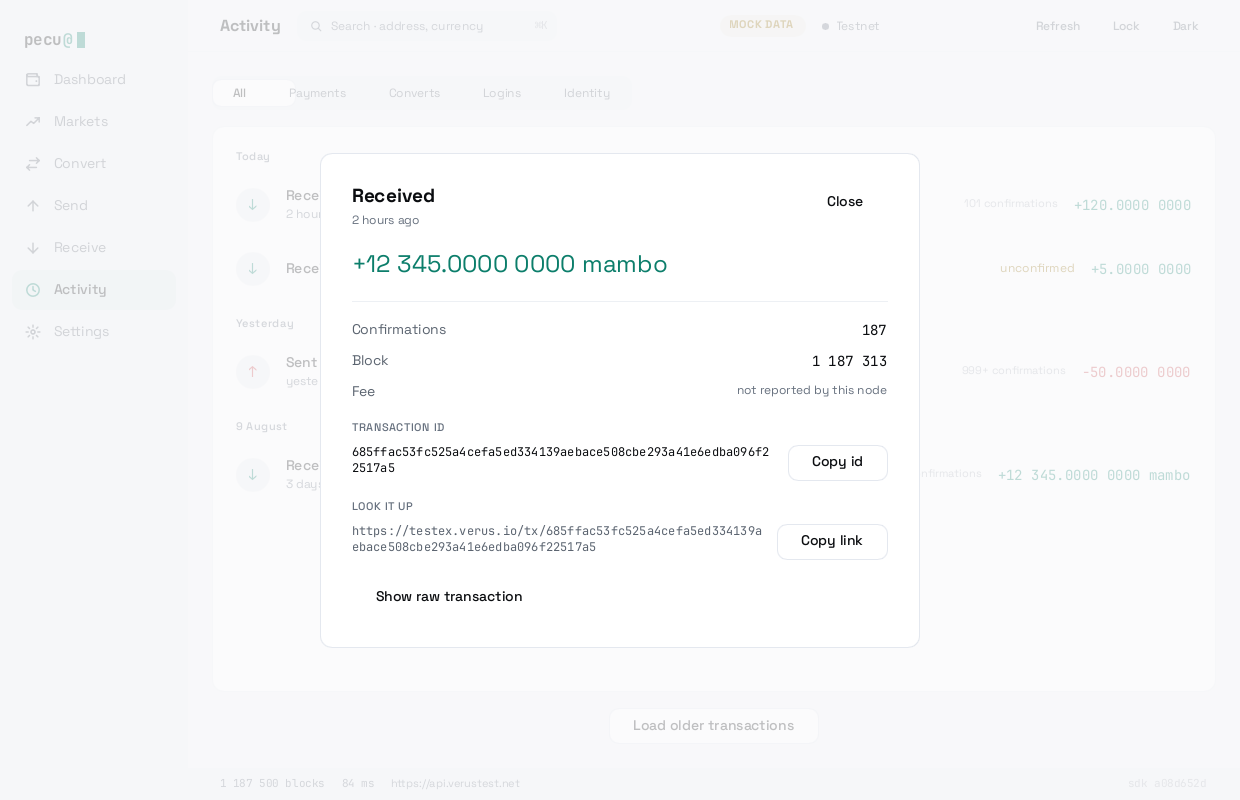
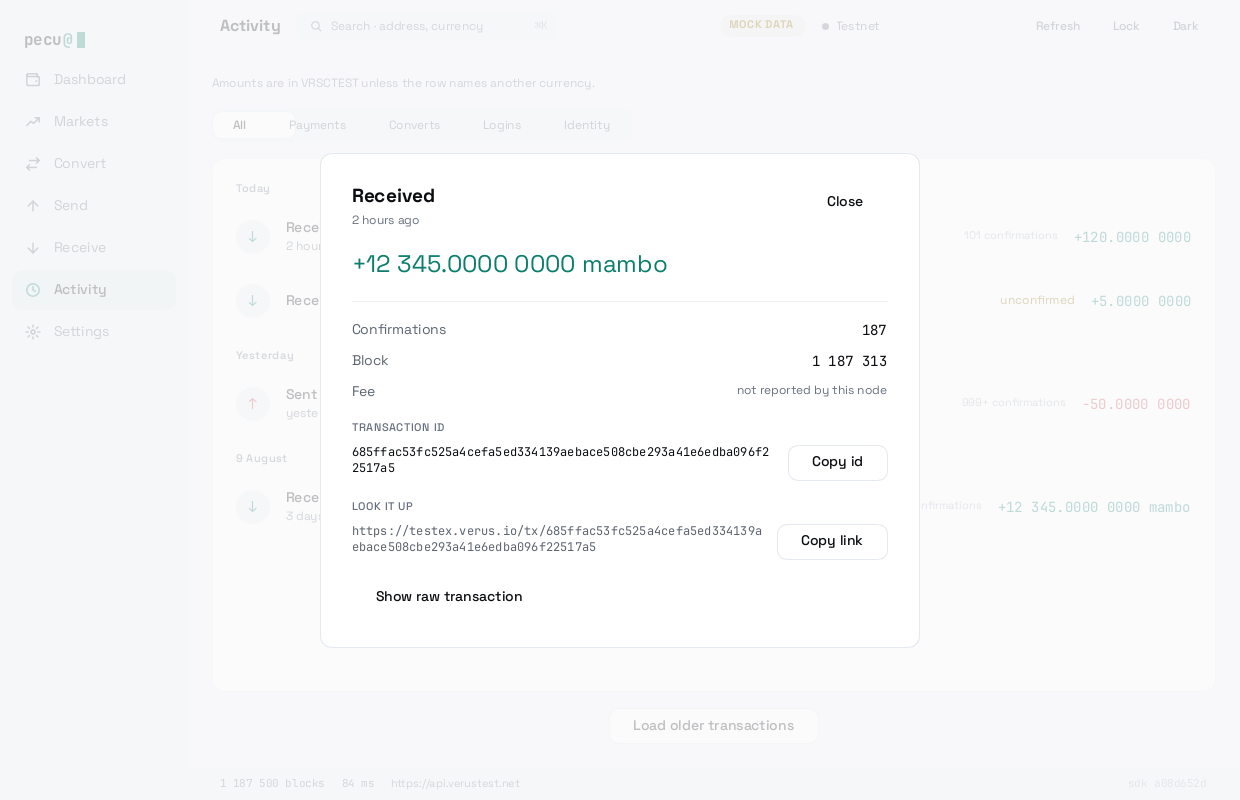
Say once, on the Activity screen, which money it is counting
Every native amount in the list is drawn by a `Money` with
`show-currency: false`, so `+120.0000 0000` and `−50.0000 0000` appear
with nothing anywhere on the screen to say what they are. The one token
row names its own — `+12 345.0000 0000 mambo` — which leaves the single
currency the screen is mostly made of as the only one it never mentions.
This wallet ships five chains and renders them all through the same
interface, and the reference images are testnet, so the screenshot in the
issue is a testnet wallet whose Activity screen says nothing about being
one.

The rows keep `show-currency: false`. Repeating a word that is the same
on every row down a column somebody is scanning for the numbers is why
they were set that way, and undoing it would fix the naming by making
the list harder to read. One sentence above the list carries it instead:
"Amounts are in VRSCTEST unless the row names another currency."

## Where it went, and the two places it did not

The issue offers the day heading or the summary strip. The heading loses
on counting: three of them in one reference image of this screen, and one
per day in a history of any length — "once per screen" and "on the day
heading" are the same sentence only for a list with one day in it. It is also a
`Note` that `pecu-core` words and sends, so a ticker there would be a
change in another crate to answer a question about a screen.

The summary strip loses on a fact rather than on a preference: it is
[…]

diff --git a/crates/pecu-ui/tests/activity_currency.rs b/crates/pecu-ui/tests/activity_currency.rs
@@ -1,0 +1,225 @@
+//! Which money the Activity screen is counting, and that it says so once.
+//!
+//! # Why this is a test and not a screenshot
+//!
+//! A reference image holds the wording and the position, and holds them better
+//! than an assertion can. Two things here are not in any picture.
+//!
+//! The first is where the word comes from. Every reference image of this
+//! screen is rendered from a fixture on one chain, so a picture cannot tell a
+//! ticker read from `WalletState.ticker` apart from the same letters typed
+//! into the `.slint` — which is issue #17, one screen along, and the reason
+//! this one is stacked on its fix. So the chain is set from here, to one no
+//! activity fixture mentions, and the screen has to come back saying it: a
+//! literal scores zero and is caught, and a ticker that drifted back onto the
+//! rows scores six and is caught too.
+//!
+//! The second is the empty case. `WalletState.ticker` is empty until a node
+//! names the chain, and no fixture photographs an Activity screen in that
+//! state. "Amounts are in ." is a sentence with a hole in it that would render
+//! perfectly, review perfectly, and appear in no image anybody looks at.
+//!
+//! What all three buy, as `balance_captions.rs` puts it, is insurance against
+//! re-recording: `UPDATE_SNAPSHOTS=1` accepts whatever the window happens to
+//! draw, and these assertions do not.
+
+#![allow(clippy::expect_used, clippy::panic)]
+
+use i_slint_backend_testing::ElementQuery;
+use pecu_ui::{AppWindow, WalletState};
+use slint::ComponentHandle;
+use std::collections::HashSet;
+use std::sync::{Mutex, MutexGuard, PoisonError};
+
+/// The fixed half of the sentence that names the currency.
+///
+/// Matched on rather than the whole line, so that rewording the tail — a
+/// designer's and a translator's business — does not fail a test about where
+/// the ticker comes from and how often it is drawn.
+const NAMES_THE_CURRENCY: &str = "Amounts are in";
+
+/// Two chains this wallet ships and no activity fixture mentions.
+///
+/// Real names rather than invented ones, because the reason this screen has to
+/// say anything at all is that one interface renders five of them. Neither
+/// string occurs in a fixture row's amount, note or day heading, so a count of
+/// one of them on this screen is a count of the line under test.
+const ONE_CHAIN: &str = "vARRR";
+const ANOTHER_CHAIN: &str = "CHIPS";
+
+/// One window on this process at a time.
+///
+/// The same reason `tests/balance_captions.rs` has one: the testing backend is
+/// process-global, and the threads Cargo runs a file's tests as will deadlock
+/// fighting over it. `into_inner` on a poisoned lock so that a test which
+/// failed holding it does not turn the rest into lock panics and bury the
+/// failure worth reading.
+static ONE_WINDOW_AT_A_TIME: Mutex<()> = Mutex::new(());
+
+/// Hold the window to this thread for the rest of the test.
+fn alone() -> MutexGuard<'static, ()> {
+    ONE_WINDOW_AT_A_TIME
+        .lock()
+        .unwrap_or_else(PoisonError::into_inner)
+}
+
+/// The Activity screen, with a full history on it, on the chain named.
+///
+/// `history` is the fixture the reference images use: four kinds of row, three
+/// day headings and the summary strip, which is the most crowded this screen
+/// gets and so the most places a stray ticker could hide. The chain is
+/// overridden after it, because every fixture in this crate is on VRSCTEST and
+/// a test that accepted the fixture's own answer would pass against a
+/// hard-coded one.
+fn activity_on(chain: &str) -> AppWindow {
+    let ui = AppWindow::new().expect("a window");
+
+    // Explicitly, and for the reason `tests/translation.rs` sets out: Slint
+    // picks its bundled language from the **system locale**, so on a German
+    // machine this window comes up in German. Nothing asserted below is a
+    // navigation label, but the sentence under test is one `@tr` away from
+    // being catalogued, and a test that passes or fails by locale is worse
+    // than one that is wrong everywhere.
+    slint::select_bundled_translation("en").expect("the default language");
+
+    pecu_ui::chart::install(&ui);
+    pecu_ui::fixtures::history(&ui);
+    ui.global::<WalletState>().set_ticker(chain.into());
+    ui.show().expect("show");
+    ui
+}
+
+/// Every piece of text on the window, once for each place it is drawn.
+///
+/// Two things are going on here.
+///
+/// The line under test is a plain `Text`, which `accessible_label` alone does
+/// not reach — the same reason `tests/balance_captions.rs` and
+/// `tests/translation.rs` read the value as well as the label.
+///
+/// And `find_all` hands the same element back more than once. On this screen
+/// it is six times each: 2727 handles for a window with a few hundred elements
+/// in it, and the six copies of this caption report one position and one size
+/// between them. That is a property of the query rather than of the window, and
+/// no existing test noticed because none of them counts — `translation.rs`
+/// asserts `>= 2` where the honest answer is two. A count is the whole point
+/// here, so the handles are folded by what they say and where they are drawn.
+/// Two mentions are two mentions when they are in two places on the glass.
+fn drawn(ui: &AppWindow) -> Vec<String> {
+    let mut seen = HashSet::new();
+    ElementQuery::from_root(ui)
+        .match_descendants()
+        .find_all()
+        .iter()
+        .filter_map(|element| {
+            let text = element
+                .accessible_label()
+                .or_else(|| element.accessible_value())?;
+            let at = element.absolute_position();
+            let size = element.size();
+            let once = seen.insert((
+                text.to_string(),
+                at.x.to_bits(),
+                at.y.to_bits(),
+                size.width.to_bits(),
+                size.height.to_bits(),
+            ));
+            once.then(|| text.to_string())
+        })
+        .collect()
+}
+
+/// How many places on screen contain this phrase.
+fn times_said(ui: &AppWindow, phrase: &str) -> usize {
+    drawn(ui)
+        .iter()
+        .filter(|text| text.contains(phrase))
+        .count()
+}
+
+#[test]
+fn the_activity_screen_names_its_currency_exactly_once() {
+    let _alone = alone();
+    i_slint_backend_testing::init_no_event_loop();
+
+    let ui = activity_on(ONE_CHAIN);
+
+    // "Once" is a claim about something only when there are several places it
+    // could have been said. This fixture draws six rows and a four-figure
+    // summary strip: before this line existed the count below was zero, and a
+    // ticker back on the rows would make it six.
+    assert!(
+        times_said(&ui, "0000") >= 4,
+        "the activity list is not on screen, so a count of tickers on it counts nothing: {:?}",
+        drawn(&ui)
+    );
+    assert_eq!(
+        times_said(&ui, ONE_CHAIN),
+        1,
+        "the Activity screen should name its currency exactly once; got {:?}",
+        drawn(&ui)
+    );
+    assert!(
+        drawn(&ui)
+            .iter()
+            .any(|text| text.contains(NAMES_THE_CURRENCY) && text.contains(ONE_CHAIN)),
+        "the one mention is not the sentence that names the currency: {:?}",
+        drawn(&ui)
+    );
+
+    ui.hide().expect("hide");
+}
+
+#[test]
+fn the_currency_named_is_the_chain_the_wallet_is_on() {
+    let _alone = alone();
+    i_slint_backend_testing::init_no_event_loop();
+
+    // The point of the pair. A literal in the `.slint` renders identically to
+    // a property on any one chain, and this wallet runs on five: the screen
+    // has to follow the ticker to the other one and leave nothing of the first
+    // behind.
+    for (shown, absent) in [(ONE_CHAIN, ANOTHER_CHAIN), (ANOTHER_CHAIN, ONE_CHAIN)] {
+        let ui = activity_on(shown);
+        assert_eq!(
+            times_said(&ui, shown),
+            1,
+            "on {shown} the screen should name {shown} once; got {:?}",
+            drawn(&ui)
+        );
+        assert_eq!(
+            times_said(&ui, absent),
+            0,
+            "on {shown} the screen is still naming {absent}; got {:?}",
+            drawn(&ui)
+        );
+        ui.hide().expect("hide");
+    }
+}
+
+#[test]
+fn a_chain_no_node_has_named_yet_leaves_no_gap_in_the_sentence() {
+    let _alone = alone();
+    i_slint_backend_testing::init_no_event_loop();
+
+    // The state a running wallet is in before its first portfolio arrives, and
+    // one no reference image renders. `bridge::apply_wallet` clears `loading`
+    // on unlock while `apply_portfolio` is what fills the ticker, so this is
+    // reachable with the rest of the screen fully drawn — which is why the
+    // line is guarded on the ticker itself rather than on `loading`.
+    let ui = activity_on("");
+
+    assert!(
+        times_said(&ui, "0000") >= 4,
+        "the activity list is not on screen, so the absence below is a fact about an empty window: {:?}",
+        drawn(&ui)
+    );
+    assert_eq!(
+        times_said(&ui, NAMES_THE_CURRENCY),
+        0,
+        "an unnamed chain should get no sentence at all rather than one with a hole in it; got {:?}",
+        drawn(&ui)
+    );
+
+    ui.hide().expect("hide");
+}
